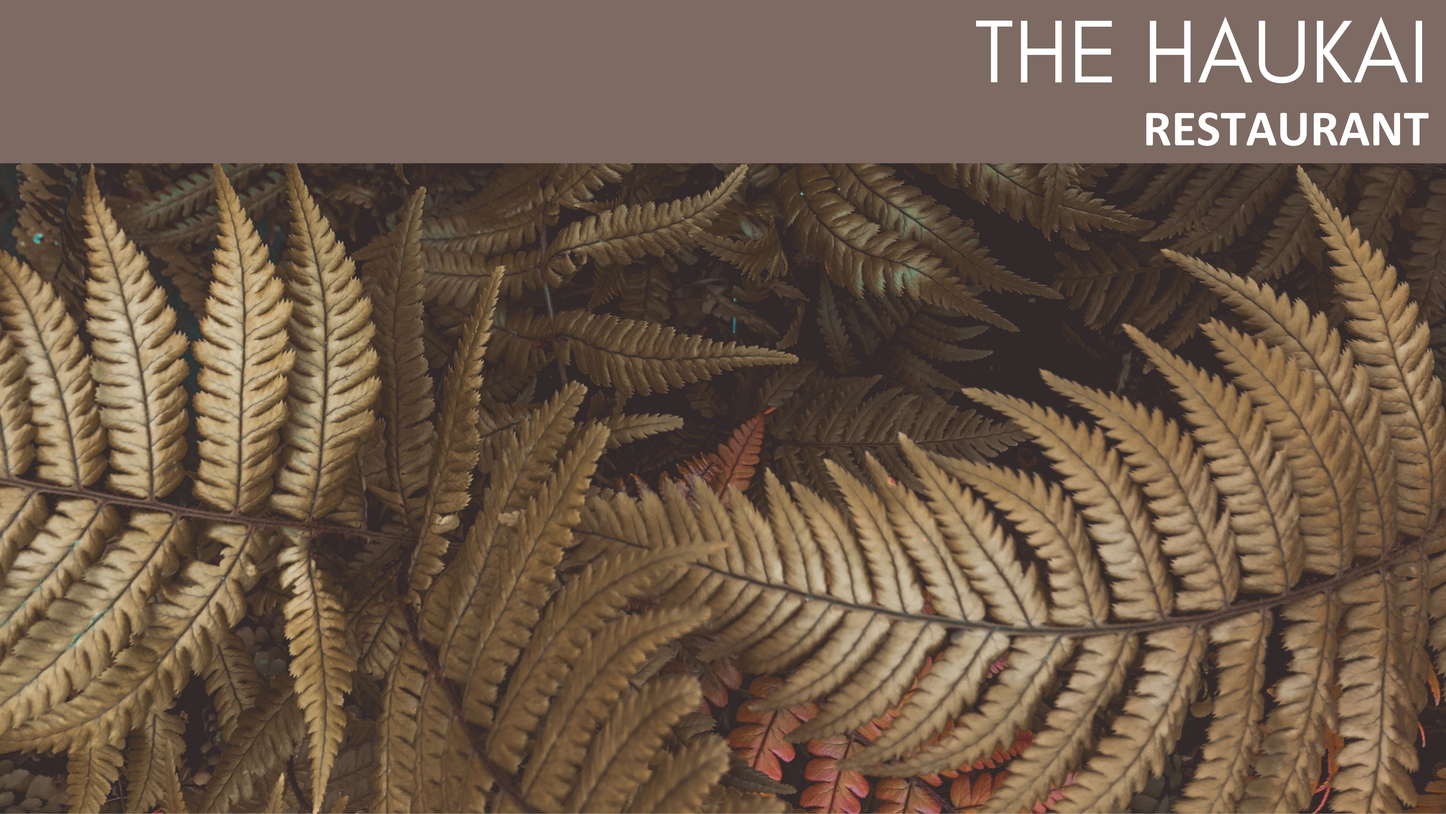
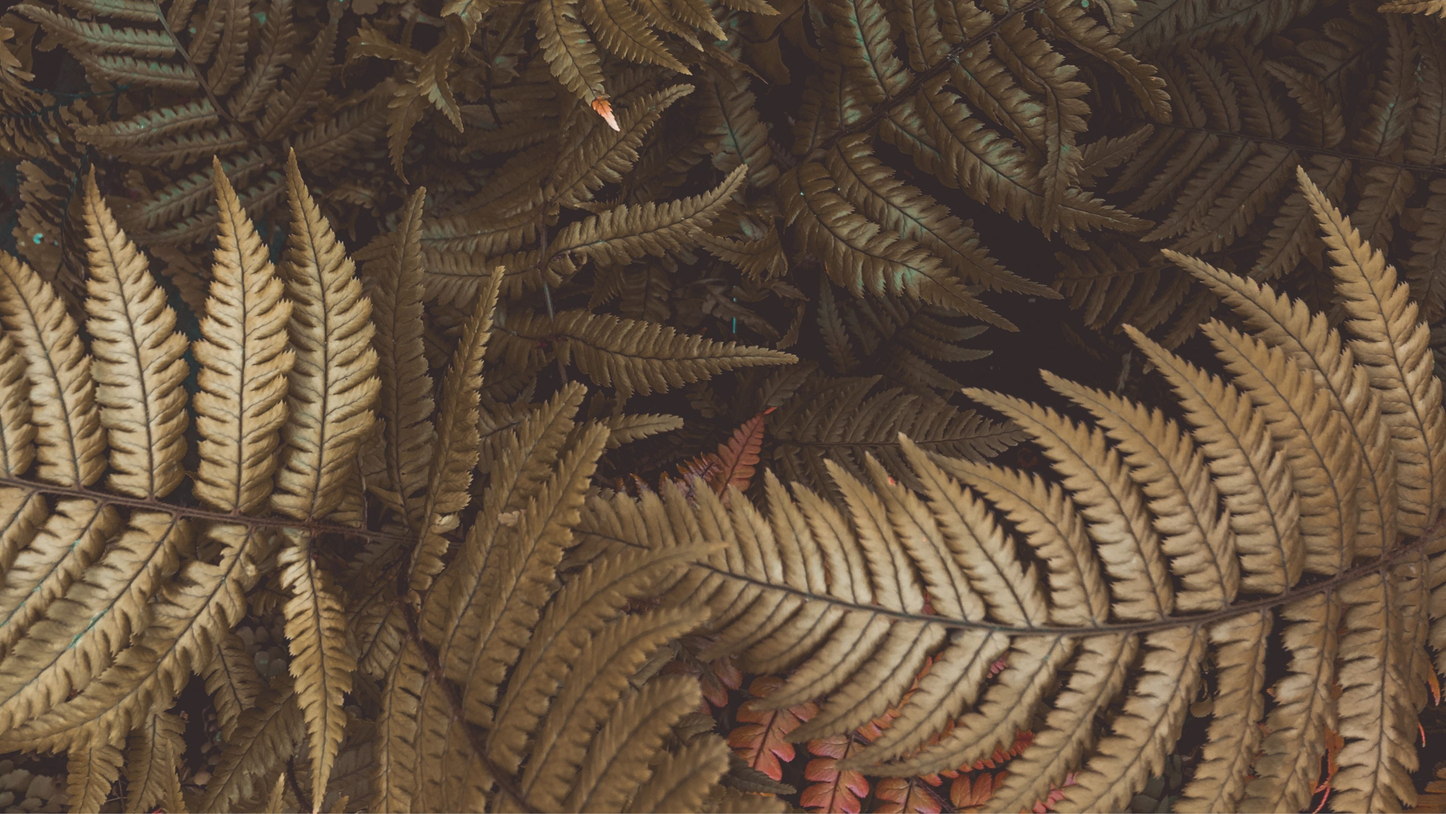
Added header, replaced jumbotron images, and adjusted headings

Changed region(s): [[0.0, 0.0, 1.0, 0.2176]]

diff --git a/css/styles.css b/css/styles.css
@@ -1,7 +1,20 @@
 * {   
     box-sizing: border-box;
   }
-    
+ 
+.header {
+  text-align: right;
+  padding-right: 20px;
+  padding-bottom: 10px;
+  background-color: #7d6b63;
+  color: #ffffff;
+}  
+.header-line1 h1{
+  font-size: 86px;
+}
+.header-line2 h1 {
+  font-size: 50px;
+}
 .jumbotron {
     text-align: center;
     padding: 0px;
@@ -101,7 +114,7 @@ h2 a:hover {
   text-align: center;
   margin-top: -30px;
   margin-bottom: 10px;
-  padding-top: 10px;
+  padding-top: 5px;
   padding-bottom: 10px;
   background-color: #7d6b63;
   color: #ffffff;
@@ -186,7 +199,7 @@ h2 a:hover {
   margin-top: -30px;
   margin-bottom: 30px;
   padding-top: 10px;
-  padding-bottom: 10px;
+  padding-bottom: 5px;
   background-color: #7d6b63;
   color: #ffffff;
 }
@@ -250,8 +263,8 @@ h2 a:hover {
   text-align: center;
   margin-top: -30px;
   margin-bottom: 5px;
-  padding-top: 10px;
-  padding-bottom: 10px;
+  padding-top: 5px;
+  padding-bottom: 5px;
   background-color: #ffffff;
   
 }
@@ -273,7 +286,7 @@ h2 a:hover {
   text-align: center;
   margin-top: -30px;
   margin-bottom: 10px;
-  padding-top: 10px;
+  padding-top: 5px;
   padding-bottom: 10px;
   background-color: #7d6b63;
   color: #ffffff;
@@ -290,7 +303,7 @@ h2 a:hover {
   margin-top: -35px;
   margin-bottom: 10px;
   padding-top: 10px;
-  padding-bottom: 10px;
+  padding-bottom: 5px;
   background-color: #7d6b63;
   color: #ffffff;
 }

diff --git a/staff/staff.html b/staff/staff.html
@@ -35,6 +35,14 @@
 </div>
    <!-- Header -->
   <header>
+    <div class="header">
+      <div class="header-line1">
+      <h1>THE HAUKAI</h1>
+      </div>
+      <div class="header-line2">
+      <h1>RESTAURANT</h1>
+      </div>
+    </div>
     <div class="jumbotron"> 
       <img src="../images/staff.jpg" class="img-responsive" alt="Bartender working at bar counter in oriental restaurant" width="4000" height="2252"> 
     </div>

diff --git a/menu/menu.html b/menu/menu.html
@@ -37,6 +37,14 @@
 </div>
    <!-- Header -->
   <header>
+    <div class="header">
+        <div class="header-line1">
+        <h1>THE HAUKAI</h1>
+        </div>
+        <div class="header-line2">
+        <h1>RESTAURANT</h1>
+        </div>
+    </div>
     <div class="jumbotron"> 
       <img src="../images/menu2.jpg" class="img-responsive" alt="Outside view of restaurant" width="4000" height="2252"> 
     </div>

diff --git a/contact/contact.html b/contact/contact.html
@@ -35,6 +35,14 @@
 </div>
    <!-- Header -->
   <header>
+    <div class="header">
+      <div class="header-line1">
+      <h1>THE HAUKAI</h1>
+      </div>
+      <div class="header-line2">
+      <h1>RESTAURANT</h1>
+      </div>
+    </div>
     <div class="jumbotron"> 
       <img src="../images/contact.jpg" class="img-responsive" alt="Outside view of restaurant" width="4000" height="2252"> 
     </div>

diff --git a/reservations/reservations.html b/reservations/reservations.html
@@ -35,6 +35,14 @@
 </div>
    <!-- Header -->
   <header>
+    <div class="header">
+      <div class="header-line1">
+      <h1>THE HAUKAI</h1>
+      </div>
+      <div class="header-line2">
+      <h1>RESTAURANT</h1>
+    </div>
+    </div>
     <div class="jumbotron"> 
       <img src="../images/table.jpg" class="img-responsive" alt="Empty Tables and Chairs" width="4000" height="2252"> 
     </div>

diff --git a/culture/culture.html b/culture/culture.html
@@ -35,6 +35,14 @@
 </div>
    <!-- Header -->
   <header>
+    <div class="header">
+      <div class="header-line1">
+      <h1>THE HAUKAI</h1>
+      </div>
+      <div class="header-line2">
+      <h1>RESTAURANT</h1>
+      </div>
+    </div>
     <div class="jumbotron"> 
       <img src="../images/culture2.jpg" class="img-responsive" alt="Green Fern Plants" width="4000" height="2252"> 
     </div>

diff --git a/index.html b/index.html
@@ -36,6 +36,14 @@
      <!-- Header -->
     
  <header>
+  <div class="header">
+    <div class="header-line1">
+    <h1>THE HAUKAI</h1>
+    </div>
+    <div class="header-line2">
+    <h1>RESTAURANT</h1>
+    </div>
+  </div>
   <div class="jumbotron"> <img src="images/restaurant.jpg" class="img-responsive" alt="Restaurant" width="4000" height="2252"> 
   </div>
 </header>
